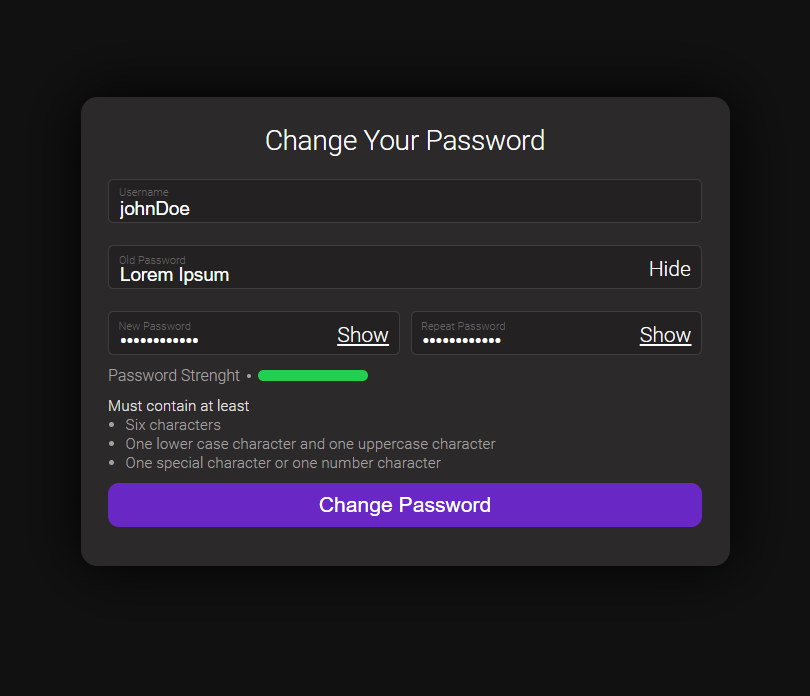
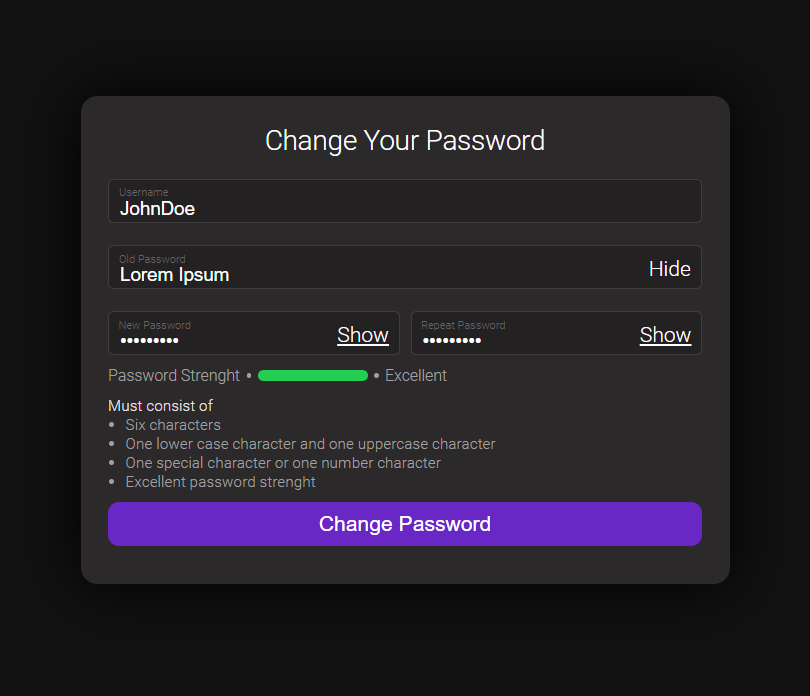
Tweaked the new UI
Added new visual text for the UI

diff --git a/static/script.js b/static/script.js
@@ -31,8 +31,8 @@ function updatePlaceHolder(input, placeholder) {
 
 
 
-
-
+// Runs on page load 
+checkPassword()
 function checkPassword() {
   const newPassword = newPasswordInput.value;
   const repeatPassword = repeatPasswordInput.value;
@@ -71,11 +71,14 @@ function calculatePasswordStrength(password) {
   SixChar = document.getElementById("6Char")
   caseChar = document.getElementById("caseChar")
   spesChar = document.getElementById("spesChar")
+  stronkChar = document.getElementById("stronkChar")
 
   SixChar.classList.toggle("checked-li", password.length >= 6);
   caseChar.classList.toggle("checked-li", hasUppercase && hasLowercase);
   spesChar.classList.toggle("checked-li", hasSpecialChar || hasNumber);
-  
+  stronkChar.classList.toggle("checked-li", hasUppercase && hasLowercase && hasNumber && hasSpecialChar && password.length >= 6 || hasUppercase && hasLowercase && hasNumber);
+  strengthLabel = document.querySelector("#StrenghtLabel")
+
   if ((newPassword && repeatPassword) && newPassword != repeatPassword) {
     toast('Both password feelds must match!')
   }
@@ -85,15 +88,19 @@ function calculatePasswordStrength(password) {
   }
 
   if (hasUppercase && hasLowercase && hasNumber && hasSpecialChar && password.length >= 6) {
+    strengthLabel.innerHTML = "Excellent"
     return 'strong'; 
   }
   else if (hasUppercase && hasLowercase && hasNumber) {
+    strengthLabel.innerHTML = "Excellent"
     return 'high';
   } 
   else if (hasUppercase && hasLowercase) {
+    strengthLabel.innerHTML = "Moderate"
     return 'medium';
   }
   else {
+    strengthLabel.innerHTML = "Weak"
     return 'weak';
   }
 }

diff --git a/templates/index.html b/templates/index.html
@@ -59,13 +59,16 @@
                         <div class="passwordStrengthIndicator">
                             <div id="strengthIndicator"></div>
                         </div>
+                        <div class="bulletPoint"></div>
+                        <p id="StrenghtLabel">Weak</p>
                     </div>
                     <ul class="passwordSpecs">
-                        <li style="list-style: none;color: #e2e2e2;">Must contain at least
+                        <li style="list-style: none;color: #e2e2e2;">Must consist of
                             <ul style="padding: 0 0 0 16px;">
                                 <li id="6Char">Six characters</li>
                                 <li id="caseChar">One lower case character and one uppercase character</li>
                                 <li id="spesChar">One special character or one number character</li>
+                                <li id="stronkChar">Excellent password strenght</li>
                             </ul>
                         </li>
                     </ul>
